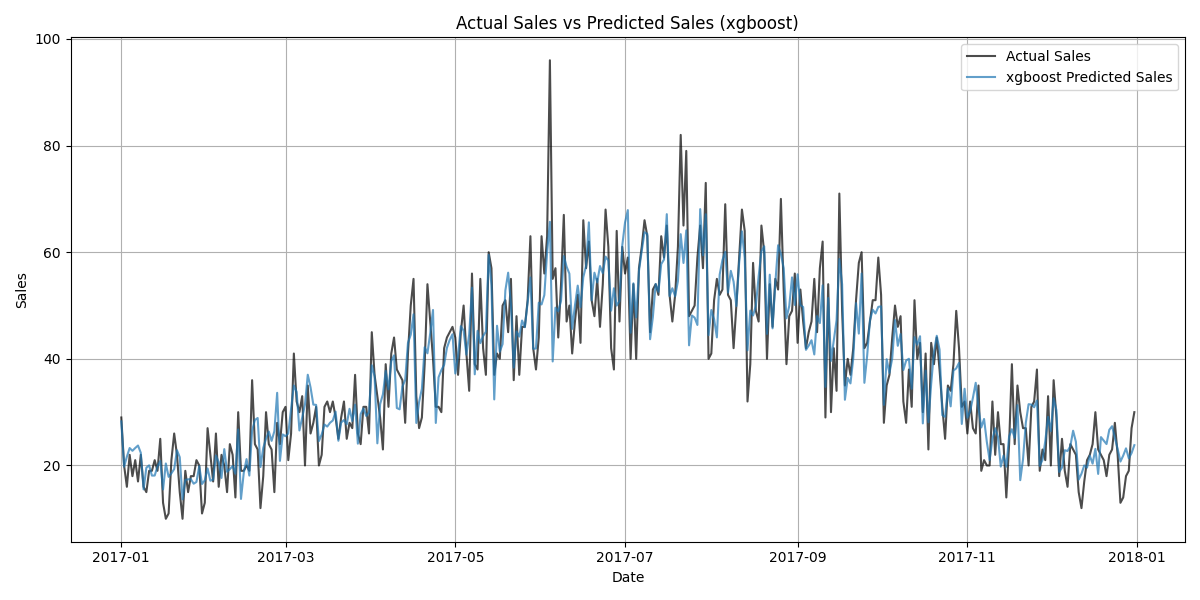
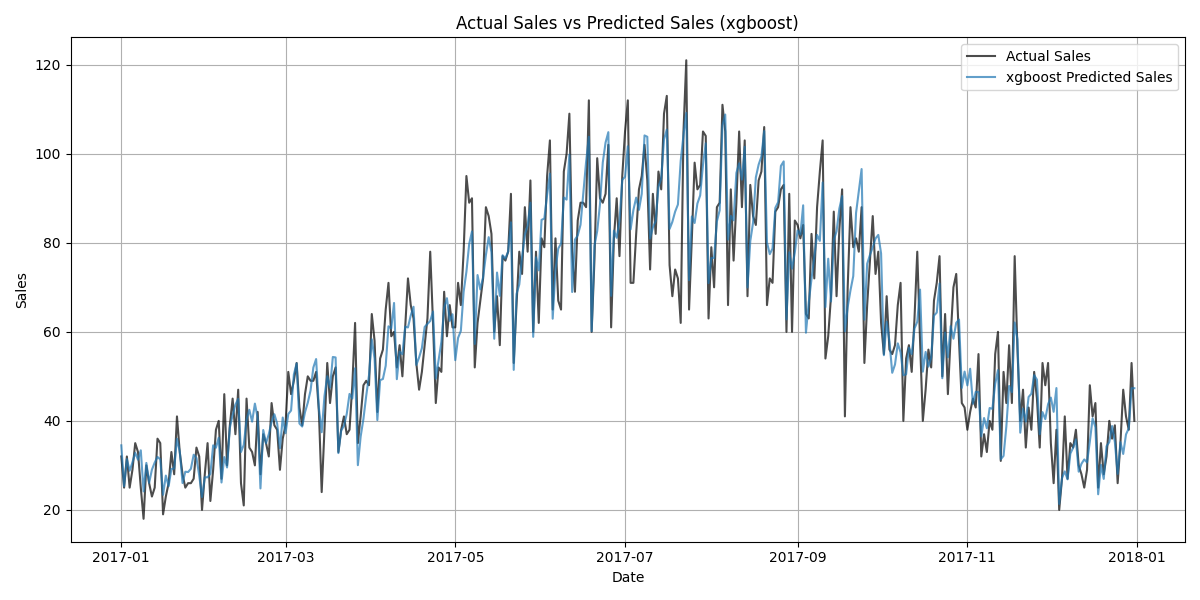
add changes

diff --git a/backend/app/services/ai_recommendation.py b/backend/app/services/ai_recommendation.py
@@ -1,0 +1,278 @@
+"""
+ai_recommendation.py
+--------------------
+AIaaS integration with HuggingFace OpenAI-compatible router.
+Uses Qwen/Qwen2.5-7B-Instruct to generate executive business insights
+from sales forecast data.
+
+The LLM is prompted to return structured JSON so the response maps
+directly to the frontend AI Insight panel layout.
+"""
+
+import os
+import json
+import logging
+import re
+from typing import List, Dict, Optional
+
+from openai import OpenAI
+from dotenv import load_dotenv
+
+load_dotenv()
+
+logger = logging.getLogger(__name__)
+
+HF_TOKEN = os.getenv("HF_TOKEN", "")
+HF_BASE_URL = "https://router.huggingface.co/v1"
+MODEL_ID = "Qwen/Qwen2.5-7B-Instruct"
+
+# ── Prompt builder ────────────────────────────────────────────────────────────
+
+def _build_prompt(
+    weekly_forecast: List[Dict],
+    historical_summary: Dict,
+    metrics: Dict,
+    peak_week: Optional[str],
+    peak_sales: Optional[float],
+) -> str:
+    """
+    Construct the user-facing prompt with aggregated forecast data.
+    We keep numbers compact so it fits inside a small token window.
+    """
+
+    # Summarise weekly forecast as a simple table (max 13 weeks shown)
+    max_weeks = min(len(weekly_forecast), 13)
+    weekly_rows = "\n".join(
+        f"  {row['week']}: {row['predicted_sales']:.1f} units"
+        for row in weekly_forecast[:max_weeks]
+    )
+
+    return f"""
+You are an AI business analytics assistant reviewing sales forecast data.
+
+Generate a structured JSON response with EXACTLY these fields:
+{{
+  "summary": "<one sentence summarizing the key forecast trend>",
+  "stockout_risk": "<Low | Medium | High>",
+  "recommended_safety_stock": "<concise safety stock recommendation>",
+  "recommended_action": "<one actionable recommendation>",
+  "bullets": [
+    "<insight 1: trend analysis>",
+    "<insight 2: peak or risk>",
+    "<insight 3: inventory action>"
+  ]
+}}
+
+RULES:
+- Maximum 3 bullets, each under 20 words
+- Use simple executive-friendly language
+- Do NOT include technical ML jargon
+- stockout_risk must be exactly one of: Low, Medium, High
+- bullets must be in plain text, start with "•"
+- Return ONLY the JSON object — no extra text
+
+FORECAST DATA:
+Peak Week: {peak_week or 'N/A'}
+Peak Sales: {peak_sales or 'N/A'} units
+Weekly Forecast:
+{weekly_rows}
+
+METRICS (evaluation on last year):
+  MAE: {metrics.get('mae', 0):.2f}
+  RMSE: {metrics.get('rmse', 0):.2f}
+  R²: {metrics.get('r2', 0):.2f}
+  sMAPE: {metrics.get('smape', 0):.2%}
+
+HISTORICAL BASELINE (recent 90 days avg): {historical_summary.get('avg_sales', 0):.1f} units/day
+TREND vs HISTORY: {historical_summary.get('trend_pct', 0):+.0f}%
+""".strip()
+
+
+# ── LLM caller ────────────────────────────────────────────────────────────────
+
+def _call_hf_llm(prompt: str) -> str:
+    """Call HuggingFace router and return raw content string."""
+    client = OpenAI(
+        base_url=HF_BASE_URL,
+        api_key=HF_TOKEN,
+    )
+
+    completion = client.chat.completions.create(
+        model=MODEL_ID,
+        messages=[
+            {
+                "role": "system",
+                "content": (
+                    "You are a business intelligence analyst. "
+                    "Always respond ONLY with valid JSON as instructed. "
+                    "Do not add markdown, code fences, or explanations."
+                ),
+            },
+            {"role": "user", "content": prompt},
+        ],
+        temperature=0.4,
+        max_tokens=300,
+    )
+
+    return completion.choices[0].message.content.strip()
+
+
+# ── JSON extractor ────────────────────────────────────────────────────────────
+
+def _parse_llm_json(raw: str) -> dict:
+    """
+    Safely extract a JSON object from the LLM response.
+    Handles cases where the model wraps JSON in markdown code fences.
+    """
+    # Strip markdown fences like ```json ... ``` or ``` ... ```
+    cleaned = re.sub(r"```(?:json)?", "", raw).strip().strip("`").strip()
+
+    # Try direct parse first
+    try:
+        return json.loads(cleaned)
+    except json.JSONDecodeError:
+        pass
+
+    # Try to find first { ... } block
+    match = re.search(r"\{.*\}", cleaned, re.DOTALL)
+    if match:
+        try:
+            return json.loads(match.group())
+        except json.JSONDecodeError:
+            pass
+
+    # Final fallback — return minimal structure
+    logger.warning("LLM response could not be parsed as JSON. Raw: %s", raw[:200])
+    return {}
+
+
+# ── Main public function ───────────────────────────────────────────────────────
+
+def generate_ai_recommendation(
+    weekly_forecast: List[Dict],
+    historical_sales_values: List[float],
+    metrics: Dict,
+    peak_week: Optional[str] = None,
+    peak_sales: Optional[float] = None,
+) -> Dict:
+    """
+    Generate AI-powered business insights using the HuggingFace LLM.
+
+    Falls back gracefully to rule-based insight if the API is unavailable
+    or the token is not configured.
+
+    Returns a dict matching the frontend AI Insight panel fields:
+        summary, stockout_risk, peak_week, peak_sales,
+        recommended_safety_stock, recommended_action, bullets
+    """
+
+    # ── Compute historical summary stats ──────────────────────────────────────
+    if historical_sales_values:
+        recent = historical_sales_values[-90:] if len(historical_sales_values) >= 90 else historical_sales_values
+        avg_hist = float(sum(recent) / len(recent))
+    else:
+        avg_hist = 0.0
+
+    total_forecast_avg = (
+        float(sum(w["predicted_sales"] for w in weekly_forecast) / len(weekly_forecast))
+        if weekly_forecast else 0.0
+    )
+    trend_pct = ((total_forecast_avg - avg_hist) / avg_hist * 100) if avg_hist > 0 else 0.0
+
+    historical_summary = {
+        "avg_sales": avg_hist,
+        "trend_pct": trend_pct,
+    }
+
+    # ── Check if HF token is configured ──────────────────────────────────────
+    if not HF_TOKEN or HF_TOKEN in ("xx", "your_token_here", ""):
+        logger.warning("HF_TOKEN not configured. Using rule-based fallback insight.")
+        return _rule_based_fallback(trend_pct, peak_week, peak_sales)
+
+    # ── Build prompt and call LLM ─────────────────────────────────────────────
+    prompt = _build_prompt(
+        weekly_forecast=weekly_forecast,
+        historical_summary=historical_summary,
+        metrics=metrics,
+        peak_week=peak_week,
+        peak_sales=peak_sales,
+    )
+
+    try:
+        raw_response = _call_hf_llm(prompt)
+        parsed = _parse_llm_json(raw_response)
+
+        # Validate and normalise critical fields
+        stockout_risk = parsed.get("stockout_risk", "Medium")
+        if stockout_risk not in ("Low", "Medium", "High"):
+            stockout_risk = "Medium"
+
+        bullets = parsed.get("bullets", [])
+        if isinstance(bullets, list):
+            bullets = [str(b).lstrip("•").strip() for b in bullets[:3]]
+        else:
+            bullets = []
+
+        return {
+            "summary": parsed.get("summary", f"Demand expected to {'increase' if trend_pct >= 0 else 'decrease'} by {abs(trend_pct):.0f}% over the forecast period"),
+            "stockout_risk": stockout_risk,
+            "peak_week": peak_week,
+            "peak_sales": peak_sales,
+            "recommended_safety_stock": parsed.get("recommended_safety_stock", "Maintain current stock levels"),
+            "recommended_action": parsed.get("recommended_action", "Monitor weekly demand closely for any spikes"),
+            "bullets": bullets,
+        }
+
+    except Exception as exc:
+        logger.error("HuggingFace API call failed: %s. Using rule-based fallback.", exc)
+        return _rule_based_fallback(trend_pct, peak_week, peak_sales)
+
+
+# ── Rule-based fallback (when token not set / API unreachable) ────────────────
+
+def _rule_based_fallback(
+    trend_pct: float,
+    peak_week: Optional[str],
+    peak_sales: Optional[float],
+) -> Dict:
+    """Minimal rule-based insight mirroring the original ai_insight logic."""
+    trend_word = "increase" if trend_pct >= 0 else "decrease"
+    summary = f"Demand expected to {trend_word} by {abs(trend_pct):.0f}% over the forecast period"
+
+    if trend_pct > 15:
+        risk = "High"
+        safety_stock = f"+{int(abs(trend_pct))}%"
+        action = "Increase inventory before week 2 of the forecast period"
+        bullets = [
+            f"• Demand trending up {trend_pct:.0f}% vs recent history — plan ahead",
+            f"• Peak expected at {peak_week} with ~{peak_sales:.0f} units" if peak_week else "• Peak detected in forecast period",
+            "• Increase safety stock to prevent stockouts during demand surge",
+        ]
+    elif trend_pct < -15:
+        risk = "Low"
+        safety_stock = f"-{int(abs(trend_pct))}%"
+        action = "Delay replenishment — demand is trending below average"
+        bullets = [
+            f"• Demand declining {abs(trend_pct):.0f}% vs recent history",
+            "• Risk of overstock if current replenishment rate is maintained",
+            "• Consider promotions or bundle deals to stimulate demand",
+        ]
+    else:
+        risk = "Medium"
+        safety_stock = "Maintain current stock levels"
+        action = "Monitor weekly demand closely for any spikes"
+        bullets = [
+            f"• Demand stable — within ±15% of recent baseline",
+            f"• Peak week: {peak_week} (~{peak_sales:.0f} units)" if peak_week else "• No significant demand spikes detected",
+            "• Maintain current reorder schedule; review weekly",
+        ]
+
+    return {
+        "summary": summary,
+        "stockout_risk": risk,
+        "peak_week": peak_week,
+        "peak_sales": peak_sales,
+        "recommended_safety_stock": safety_stock,
+        "recommended_action": action,
+        "bullets": bullets,
+    }

diff --git a/backend/app/routes/forecast_routes.py b/backend/app/routes/forecast_routes.py
@@ -7,12 +7,14 @@ from app.models.schemas import (
     SavedScenarioCreate, ScenarioResponse,
     ForecastDataPoint, WeeklyForecastPoint,
     HistoricalDataPoint, Metrics,
+    AIInsightRequest, AIInsightResponse,
 )
 from app.models import db_models
 from app.services.data_loader import load_and_preprocess_data
 from app.forecasting.model_manager import ModelManager
 from app.services.simulation_engine import apply_what_if_scenario
 from app.services.ai_insight import generate_insights, aggregate_to_weekly
+from app.services.ai_recommendation import generate_ai_recommendation
 from app.evaluation.metrics import calculate_metrics
 from app.visualization.charts import generate_prediction_chart
 
@@ -206,3 +208,56 @@ def get_recent_metrics(db: Session = Depends(get_db)):
         {"model": h.model_used, "metrics": h.metrics, "date": h.forecast_date}
         for h in history
     ]
+
+
[email redacted]("/forecast/ai-insight", response_model=AIInsightResponse)
+def get_ai_insight(request: AIInsightRequest):
+    """
+    Generate AI-powered business insights using HuggingFace LLM (Qwen).
+
+    This is an independent endpoint — it accepts already-computed forecast
+    data (weekly_forecast, historical, metrics) and returns natural-language
+    insights and bullet points tailored to the AI Insight panel in the frontend.
+
+    If the HF_TOKEN is not configured, it gracefully falls back to rule-based
+    insights so the panel always has data to display.
+    """
+    try:
+        # Serialise schema objects → plain dicts for the service layer
+        weekly_forecast_dicts = [
+            {"week": pt.week, "predicted_sales": pt.predicted_sales}
+            for pt in request.weekly_forecast
+        ]
+
+        historical_values = [
+            float(pt.sales) for pt in (request.historical or [])
+        ]
+
+        metrics_dict = request.metrics.model_dump() if request.metrics else {}
+
+        result = generate_ai_recommendation(
+            weekly_forecast=weekly_forecast_dicts,
+            historical_sales_values=historical_values,
+            metrics=metrics_dict,
+            peak_week=request.peak_week,
+            peak_sales=request.peak_sales,
+        )
+
+        import os
+        hf_token = os.getenv("HF_TOKEN", "")
+        source = "rule-based" if not hf_token or hf_token in ("xx", "your_token_here", "") else "llm"
+
+        return AIInsightResponse(
+            summary=result["summary"],
+            stockout_risk=result["stockout_risk"],
+            peak_week=result.get("peak_week"),
+            peak_sales=result.get("peak_sales"),
+            recommended_safety_stock=result["recommended_safety_stock"],
+            recommended_action=result["recommended_action"],
+            bullets=result.get("bullets", []),
+            source=source,
+        )
+
+    except Exception as e:
+        logger.exception("AI Insight endpoint failed")
+        raise HTTPException(status_code=500, detail=str(e))

diff --git a/backend/app/models/schemas.py b/backend/app/models/schemas.py
@@ -105,6 +105,32 @@ class Insight(BaseModel):
     peak_sales:               Optional[float]
     recommended_safety_stock: str
     recommended_action:       str
+    bullets:                  Optional[List[str]] = []   # LLM-generated bullet points
+
+
+# ── AI Recommendation endpoint schemas (AIaaS) ───────────────────────────────
+
+class AIInsightRequest(BaseModel):
+    """Input payload for POST /forecast/ai-insight"""
+    store:              Optional[int]   = None
+    item:               Optional[int]   = None
+    weekly_forecast:    List[WeeklyForecastPoint]
+    historical:         Optional[List[HistoricalDataPoint]] = []
+    metrics:            Optional[Metrics]  = None
+    peak_week:          Optional[str]   = None
+    peak_sales:         Optional[float] = None
+
+
+class AIInsightResponse(BaseModel):
+    """Response from the AI Recommendation endpoint"""
+    summary:                  str
+    stockout_risk:            str
+    peak_week:                Optional[str]
+    peak_sales:               Optional[float]
+    recommended_safety_stock: str
+    recommended_action:       str
+    bullets:                  List[str] = []
+    source:                   str = "llm"   # 'llm' or 'rule-based'
 
 
 class ForecastResponse(BaseModel):